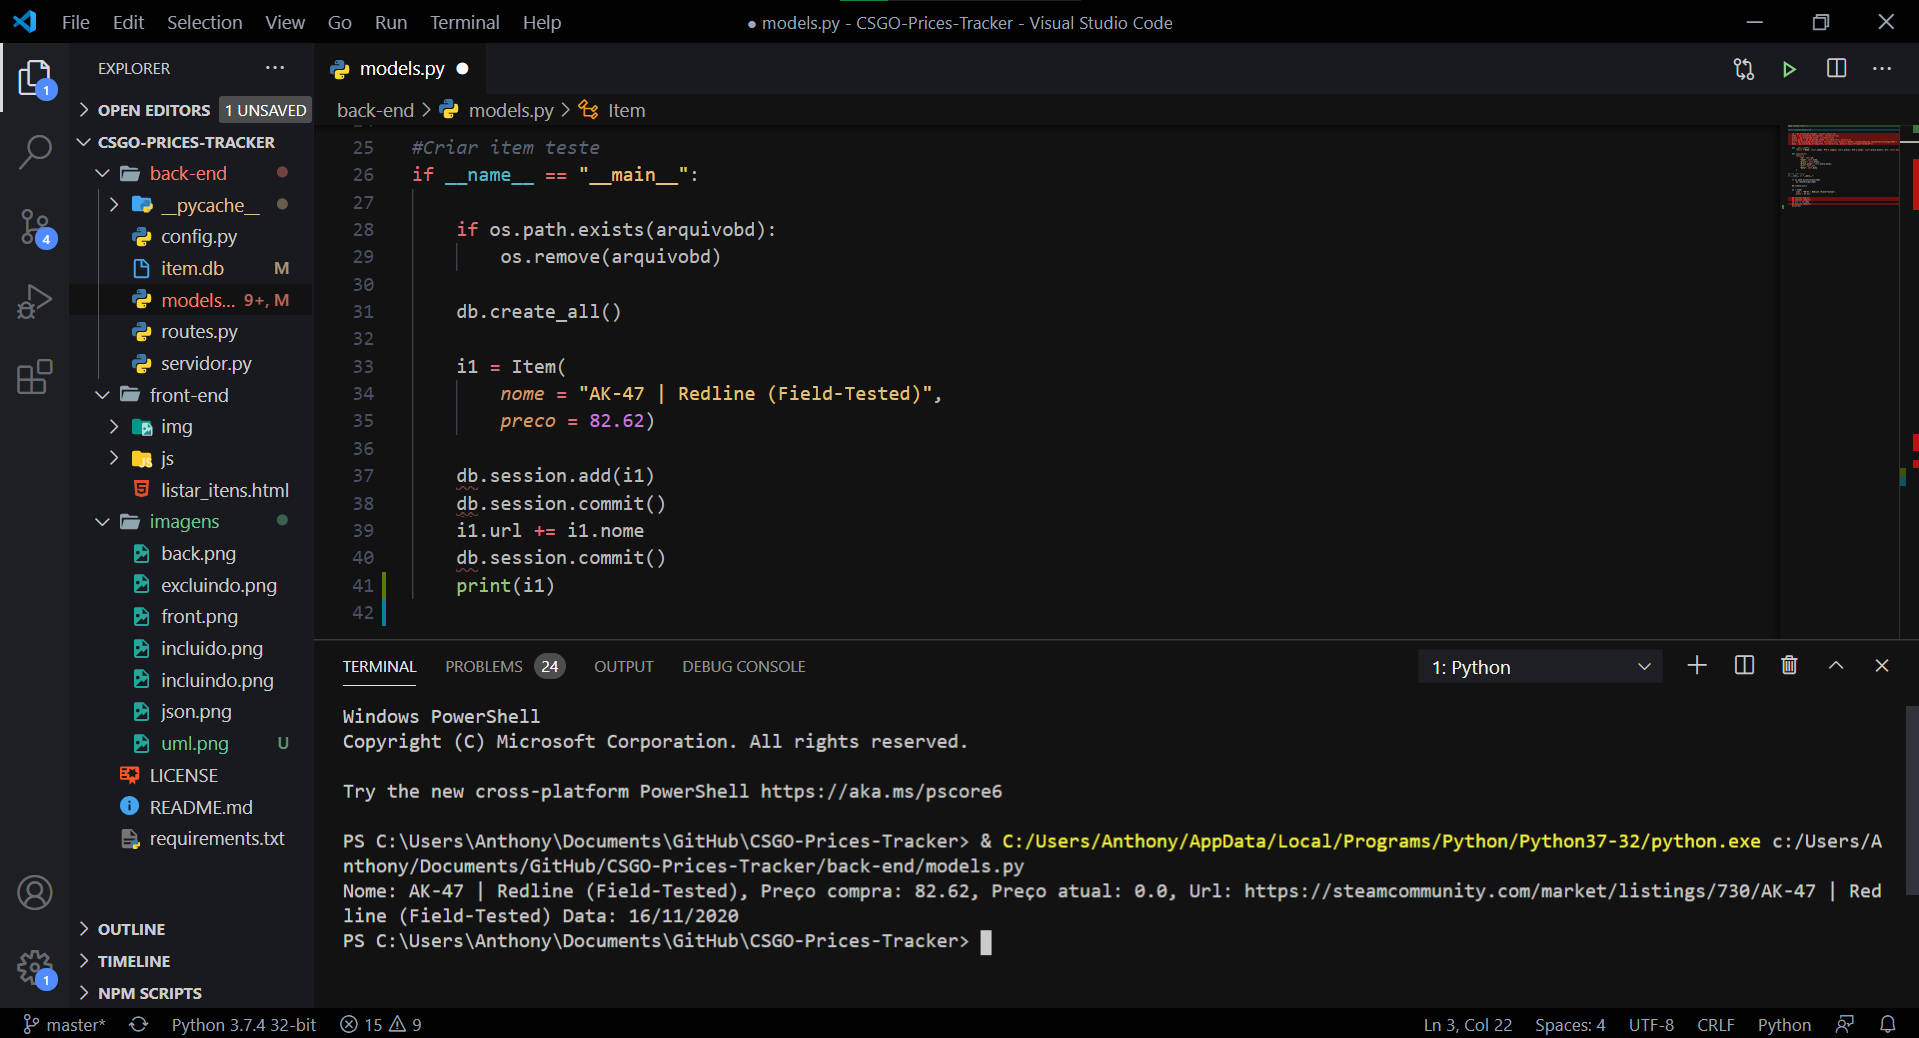
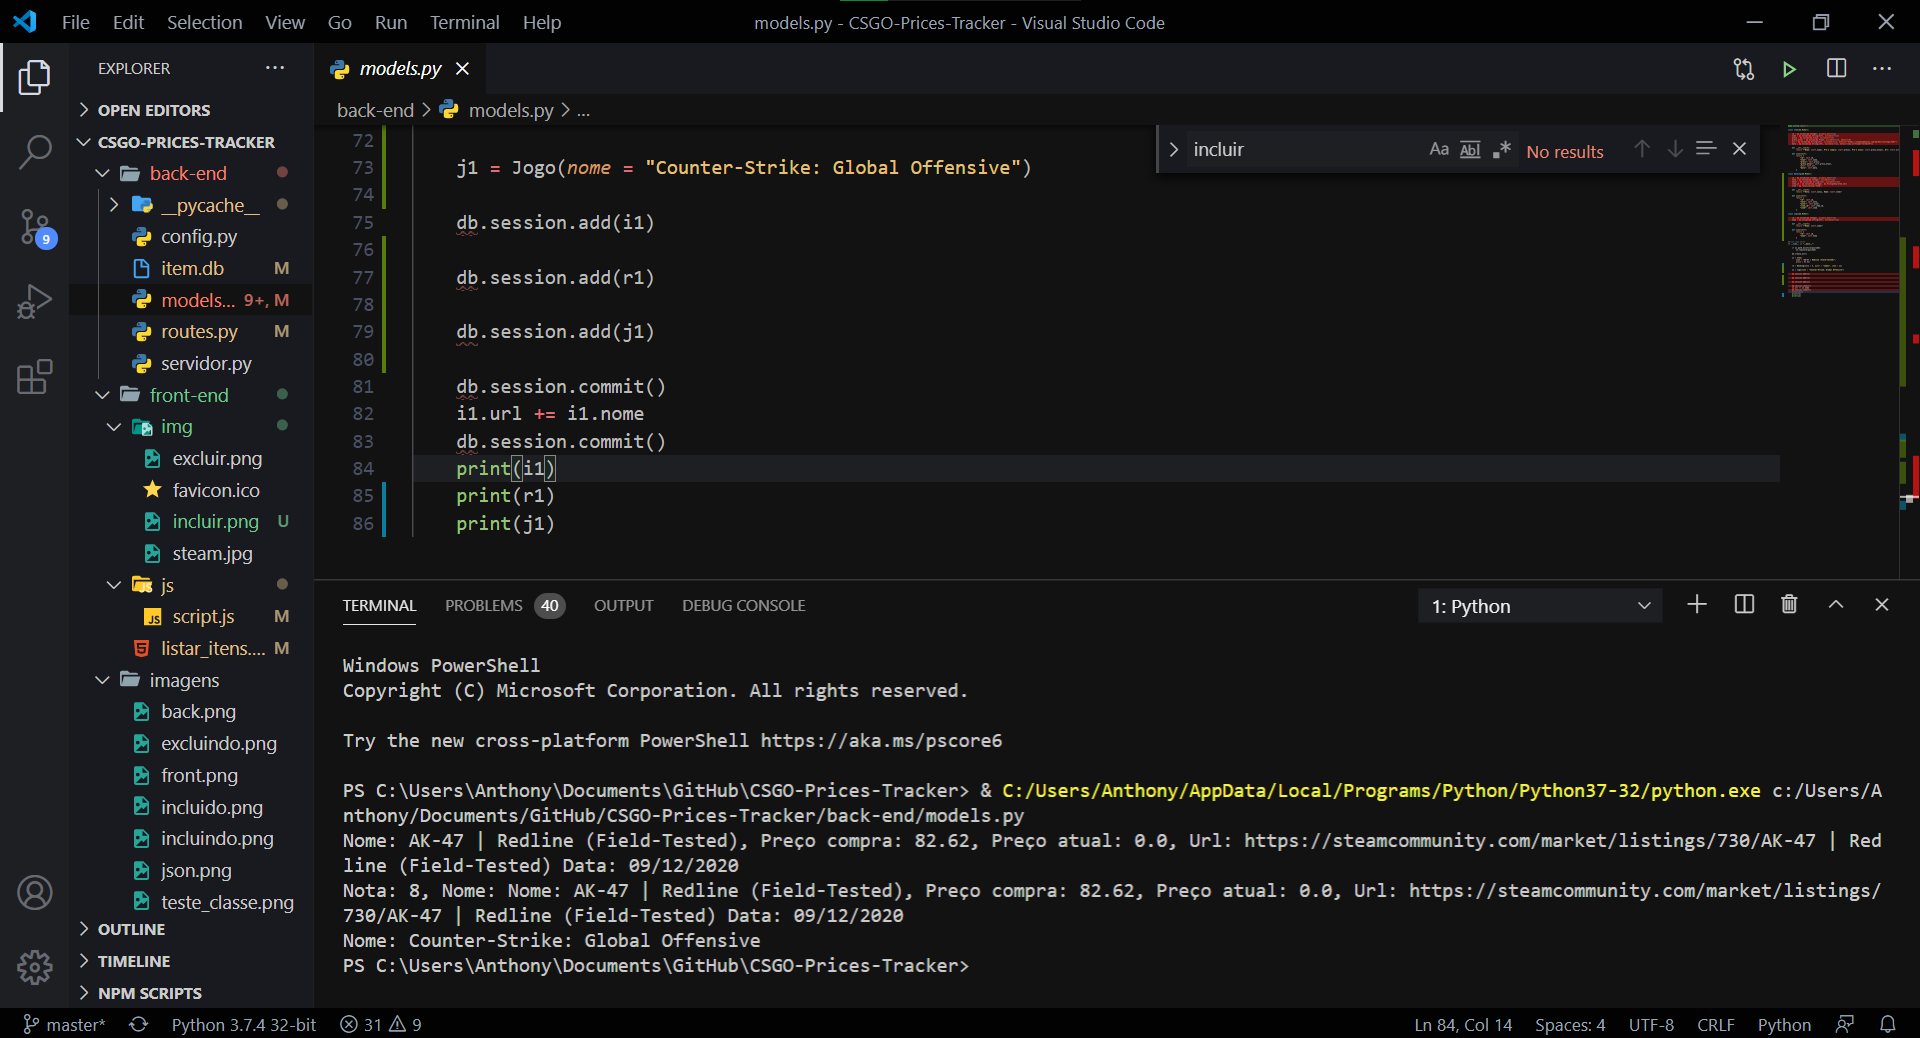
av6

diff --git a/front-end/listar_itens.html b/front-end/listar_itens.html
@@ -17,9 +17,15 @@
                     <span class="navbar-text">CS:GO Prices Tracker</span>
                     <a class="nav-item nav-link" href="#" id="linkInicio">Início
                         <span class="sr-only">(current)</span></a>
-                    <a class="nav-item nav-link" href="#" id="linkListarItens">Listar</a>
-                    <a class="nav-item nav-link" data-toggle="modal" 
-                        data-target="#modalIncluirItem" href="#">Incluir</a>
+                    <li class="nav-item dropdown">
+                        <a class="nav-link dropdown-toggle" href="#" id="navbarDropdownMenuLink" data-toggle="dropdown" 
+                        aria-haspopup="true" aria-expanded="false">Cadastro</a>
+                        <div class="dropdown-menu" aria-labelledby="navbarDropdownMenuLink">
+                            <a class="dropdown-item" href="#" id="linkListarItens">Itens</a>
+                        </div>
+                    </li>
+                    <a class="nav-item nav-link" href="#" id="linkListarRanking">Ranking</a>
+                    <a class="nav-item nav-link" href="#" id="linkListarJogo">Jogo</a>
                 </div>
             </div>
             <button class="navbar-toggler" type="button" data-toggle="collapse" data-target="#navbarSupportedContent"
@@ -28,7 +34,7 @@
             </button>
         </nav>
         <div id="corpoDaPagina">
-            <div id="conteudoInicial" class="invisible">
+            <div id="conteudoInicial" class="text-center" style="margin-top: auto">
                 Bem vindo ao cadastro de Itens.
             </div>
             <div class="modal fade" id="modalIncluirItem" tabindex="-1" role="dialog"
@@ -57,7 +63,6 @@
                                 </div>
                             </form>
                         </div>
-
                         <div class="modal-footer">
                             <button type="button" class="btn btn-secondary" data-dismiss="modal">Cancelar</button>
                             <button id="btIncluirItem" type="button" class="btn btn-primary">Incluir</button>
@@ -78,6 +83,41 @@
                 <tbody id="corpoTabelaItens">
                 </tbody>
             </table>
+        </div>
+        <div class="container" id="cadastroRanking">
+            <h5>Ranking</h5>
+            <a class="nav-item nav-link" data-toggle="modal" 
+            data-target="#modalIncluirRanking" href="#">
+            <img src="img/incluir.png" title="Incluir Item" width="40px" height="40px"></a>
+            <table class="table table-striped table-hover fixed" id="tabelaRanking">
+                <thead>
+                    <tr>
+                        <th scope="col">Nota</th>
+                        <th scope="col">Autor</th>
+                        <th scope="col">Nome</th>
+                        <th scope="col">Excluir</th>
+                    </tr>
+                </thead>
+                <tbody id="corpoTabelaRanking">
+                </tbody>
+            </table>
+        </div>
+        <div class="container" id="cadastroJogo">
+            <h5>Jogo</h5>
+            <a class="nav-item nav-link" data-toggle="modal" 
+            data-target="#modalIncluirJogo" href="#">
+            <img src="img/incluir.png" title="Incluir Jogo" width="40px" height="40px"></a>
+            <table class="table table-striped table-hover" id="tabelaJogo">
+                <thead>
+                    <tr>
+                        <th scope="col">Nome</th>
+                        <th scope="col">Excluir</th>
+                    </tr>
+                </thead>
+                <tbody id="corpoTabelaJogo">
+                </tbody>
+            </table>
+        </div>
         </div>
     </div>
     <script src="https://code.jquery.com/jquery-3.5.1.min.js" crossorigin="anonymous"></script>

diff --git a/front-end/js/script.js b/front-end/js/script.js
@@ -103,4 +103,63 @@ $(function() {
             alert("erro ao excluir dados, verifique o backend: ");
         }
     });
+
+    function listar (ranking) {
+        $('#corpoTabelaRanking').empty();
+        mostrar_conteudo("cadastroRanking");      
+        for (var i in ranking) { 
+            lin = '<tr id="linha_ranking_'+ranking[i].id+'">' + 
+            '<td>' + ranking[i].nota + '</td>' + 
+            '<td>' + ranking[i].autor + '</td>' + 
+            '<td>' + ranking[i].item.nome + '</td>' + 
+            '<td>' + ranking[i].item.preco + '</td>' + 
+            '<td>' + ranking[i].item.preco_atual + '</td>' + 
+            '<td>' + ranking[i].comida.data + '</td>' + 
+            '<td><a href=# id="excluir_ranking_' + ranking[i].id + '" ' + 
+                'class="excluir_ranking"><img src="img/excluir.png" '+
+                'alt="Excluir ranking" title="Excluir ranking"  width=40px></a>' + 
+            '</td>' + 
+            '</tr>';
+            $('#corpoTabelaRanking').append(lin);
+        }
+    }
+
+    $(document).on("click", "#linkListarRanking", function() {
+        exibir_ranking();
+    });
+
+    function exibir_jogo() {
+        $.ajax({
+            url: 'http://localhost:5000/listar_jogo',
+            method: 'GET',
+            dataType: 'json', 
+            success: listar, 
+            error: function(problema) {
+                alert("erro ao ler dados, verifique o backend: ");
+            }
+        });
+
+        function listar (jogo) {
+            $('#corpoTabelaJogo').empty();
+            mostrar_conteudo("cadastroJogo");      
+            for (var i in jogo) { 
+                lin = '<tr id="linha_jogo_'+jogo[i].id+'">' + 
+                '<td>' + jogo[i].nome + '</td>' + 
+                '<td>' + jogo[i].item.nome + '</td>' + 
+                '<td>' + jogo[i].item.preco + '</td>' + 
+                '<td>' + jogo[i].item.preco_atual + '</td>' + 
+                '<td>' + jogo[i].item.data + '</td>' + 
+                '<td><a href=# id="excluir_jogo_' + jogo[i].id + '" ' + 
+                    'class="excluir_jogo"><img src="img/excluir.png" '+
+                    'alt="Excluir jogo" title="Excluir jogo"  width=40px></a>' + 
+                '</td>' + 
+                '</tr>';
+                $('#corpoTabelaJogo').append(lin);
+            }
+        }
+    }
+
+    $(document).on("click", "#linkListarJogo", function() {
+        exibir_jogo();    
+    });
 });

diff --git a/back-end/routes.py b/back-end/routes.py
@@ -1,5 +1,5 @@
 from config import *
-from models import Item
+from models import Item, Ranking, Jogo
 from servidor import market, game
 
 @app.route("/")
@@ -41,5 +41,61 @@ def excluir_item(item_id):
         db.session.commit()
     except Exception as e:
         resposta = jsonify({"resultado":"erro", "detalhes":str(e)})
+    resposta.headers.add("Access-Control-Allow-Origin", "*")
+    return resposta
+
+@app.route("/listar_ranking")
+def listar_ranking():
+    ranking = db.session.query(Ranking).all()
+    lista_jsons = [ x.json() for x in ranking ]
+    resposta = jsonify(lista_jsons)
+    resposta.headers.add("Access-Control-Allow-Origin", "*")
+    return resposta
+
+@app.route("/listar_jogo")
+def listar_jogo():
+    jogo = db.session.query(Jogo).all()
+    lista_jsons = [ x.json() for x in jogo ]
+    resposta = jsonify(lista_jsons)
+    resposta.headers.add("Access-Control-Allow-Origin", "*")
+    return resposta
+
+@app.route("/listar/<string:classe>")
+def listar(classe):
+    dados = None
+    if classe == "Ranking":
+      dados = db.session.query(Ranking).all()
+    elif classe == "Item":
+      dados = db.session.query(Item).all()
+    elif classe == "Jogo":
+      dados = db.session.query(Jogo).all()
+    lista_jsons = [ x.json() for x in dados ]
+    resposta = jsonify(lista_jsons)
+    resposta.headers.add("Access-Control-Allow-Origin", "*")
+    return resposta
+
+@app.route("/incluir_ranking", methods=['post'])
+def incluir_ranking():
+    resposta = jsonify({"resultado": "ok", "detalhes": "ok"})
+    dados = request.get_json()
+    try: 
+      novo = Ranking(**dados)
+      db.session.add(novo) 
+      db.session.commit() 
+    except Exception as e: 
+      resposta = jsonify({"resultado":"erro", "detalhes":str(e)})
+    resposta.headers.add("Access-Control-Allow-Origin", "*")
+    return resposta
+
+@app.route("/incluir_jogo", methods=['post'])
+def incluir_jogo():
+    resposta = jsonify({"resultado": "ok", "detalhes": "ok"})
+    dados = request.get_json()
+    try: 
+      novo = Jogo(**dados)
+      db.session.add(novo) 
+      db.session.commit() 
+    except Exception as e: 
+      resposta = jsonify({"resultado":"erro", "detalhes":str(e)})
     resposta.headers.add("Access-Control-Allow-Origin", "*")
     return resposta

diff --git a/back-end/models.py b/back-end/models.py
@@ -22,6 +22,40 @@ class Item(db.Model):
             "data": self.data
         }
 
+class Ranking(db.Model):
+    
+    id = db.Column(db.Integer, primary_key=True)
+    nota = db.Column(db.Integer, nullable=True)
+    autor = db.Column(db.String(254), nullable=True)
+    item_id = db.Column(db.Integer, db.ForeignKey(Item.id))
+    item = db.relationship("Item")
+
+    def __str__(self):
+        return f"Nota: {self.nota}, Nome: {self.item}"
+
+    def json(self):
+        return {
+            "id": self.id,
+            "nota": self.nota,
+            "autor": self.autor,
+            "item_id": self.item_id,
+            "item": self.item
+        }
+
+class Jogo(db.Model):
+    
+    id = db.Column(db.Integer, primary_key=True)
+    nome = db.Column(db.String(254), nullable=True)
+
+    def __str__(self):
+        return f"Nome: {self.nome}" 
+
+    def json(self):
+        return {
+            "id": self.id,
+            "nome": self.nome
+        }
+
 #Criar item teste
 if __name__ == "__main__":
 
@@ -33,9 +67,20 @@ if __name__ == "__main__":
     i1 = Item(
         nome = "AK-47 | Redline (Field-Tested)", 
         preco = 82.62)
+
+    r1 = Ranking(nota = 8, autor = "James", item = i1)
+
+    j1 = Jogo(nome = "Counter-Strike: Global Offensive")
     
     db.session.add(i1)
+
+    db.session.add(r1)
+
+    db.session.add(j1)
+
     db.session.commit()
     i1.url += i1.nome
     db.session.commit()
     print(i1)
+    print(r1)
+    print(j1)

diff --git a/README.md b/README.md
@@ -5,11 +5,13 @@ Preços retirados do mercado da steam: https://steamcommunity.com/market/search?
 
 # Imagens
 
+![Imagem da uml](imagens/uml.png)
 ![Imagem do site](imagens/front.png)
 ![Dados em formato Json](imagens/json.png)
 
 # Imagens da execução
 
+![Imagem do models](imagens/teste_classe.png)
 ![Imagem da criação do bd](imagens/back.png)
 ![Imagem do formulario incluindo o item](imagens/incluindo.png)
 ![Imagem do item incluido](imagens/incluido.png)
